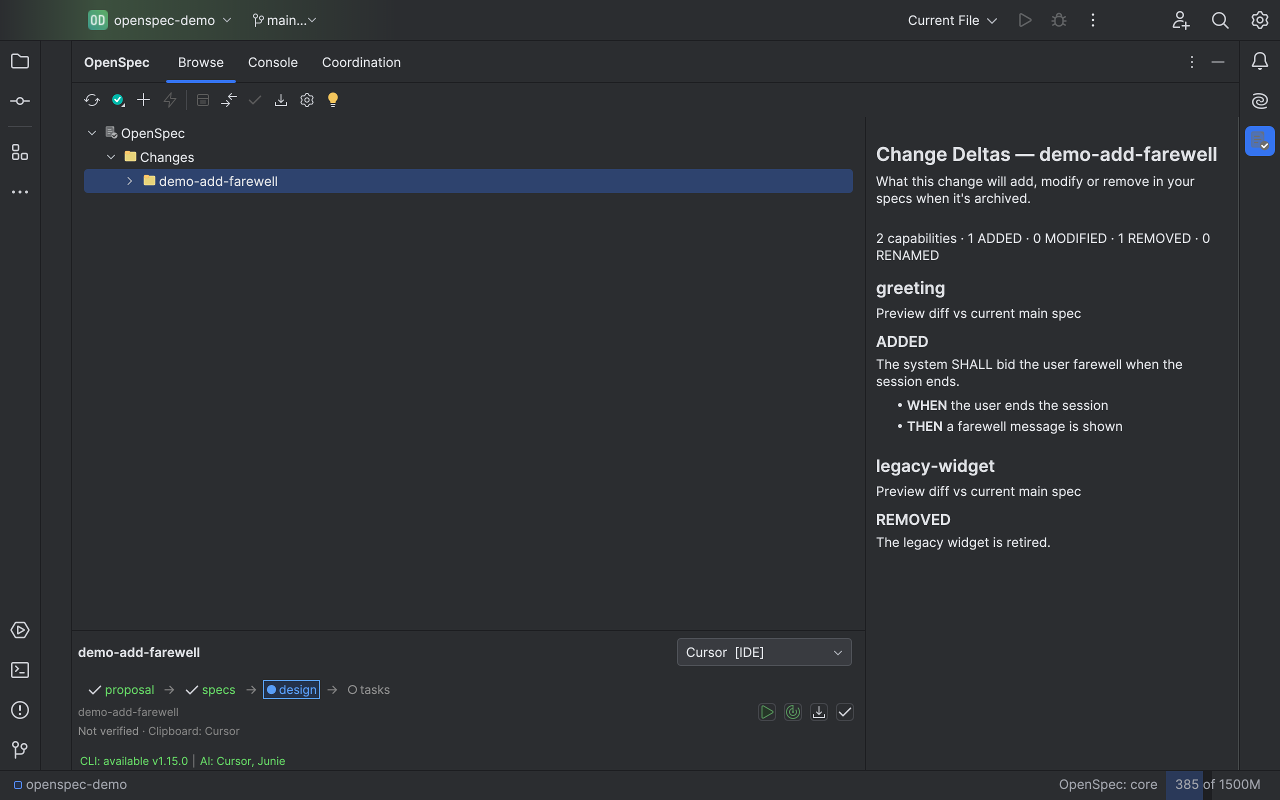
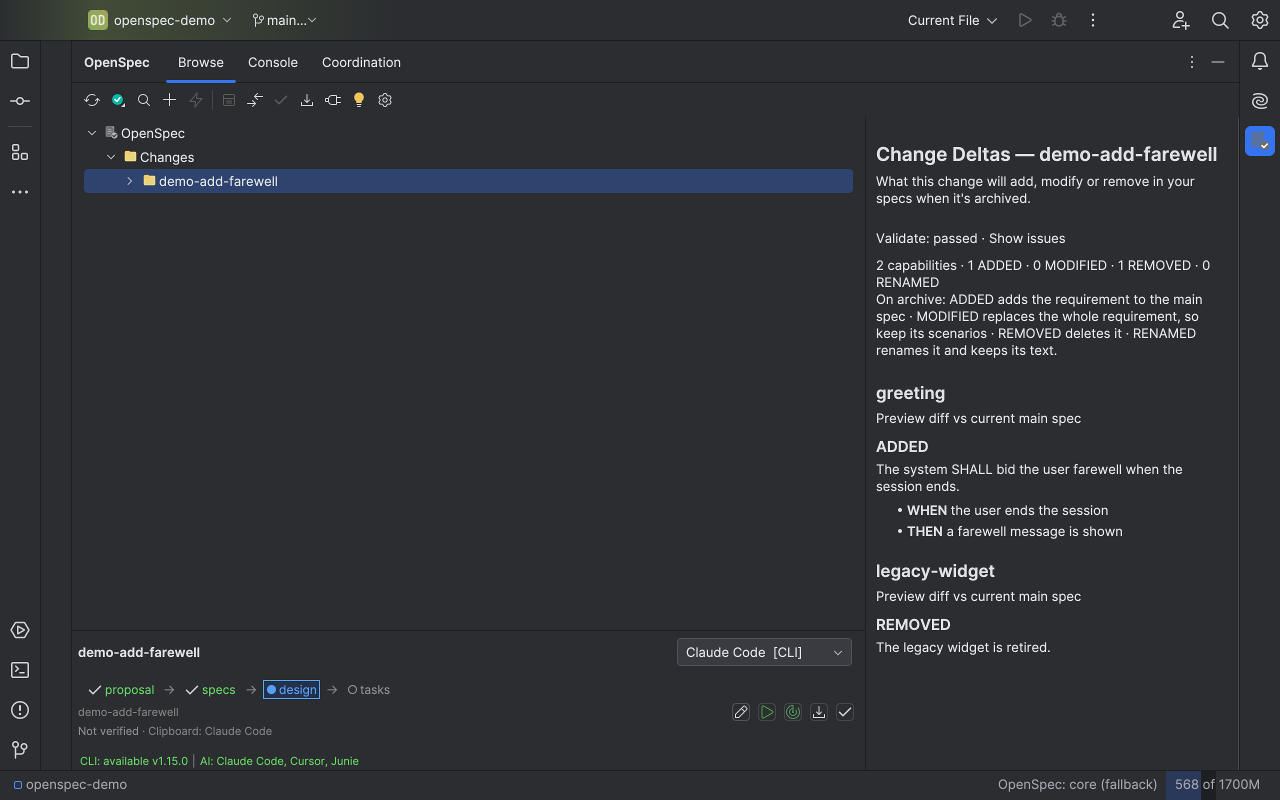
docs(screenshots): regenerate the Marketplace set and add Explore, Regenerate and Revise shots
The tour now emits all 11 listing shots, including the Regenerate and Revise Change
dialogs drawn over the IDE. Retire the stale 05 and 07 entries from the manual capture
script, and record the upload order and count for the listing check.

diff --git a/src/integrationTest/kotlin/com/johnnyblabs/openspec/uismoke/MarketplaceScreenshotTour.kt b/src/integrationTest/kotlin/com/johnnyblabs/openspec/uismoke/MarketplaceScreenshotTour.kt
@@ -40,13 +40,13 @@ import kotlin.time.Duration.Companion.seconds
  * class and the `screenshotTour` task runs only it.
  *
  * The shot list mirrors scripts/capture-screenshots.sh (the single source of truth for
- * shot names). v1 deviations from the full manual set:
+ * shot names); docs/marketplace-page.md gives the upload order. Where the tour differs from a hand capture:
  *  - 03: captures the inspection highlighting + Console results WITHOUT the Alt+Enter
  *    intention popup (driving the popup remotely is deferred).
- *  - 05 (Settings/Schemas): NOT automated — the Settings dialog is modal and its tree
- *    navigation is not remotely drivable yet; use the manual script for that shot.
  *  - 06: captures the sticky cleanup notification over the IDE, not the opened review
  *    dialog (notification-action invocation is deferred).
+ *  - 12, 13: the plugin's own dialogs are built and filled remotely and shown non-modally,
+ *    and their capture is drawn over the frame where the dialog sits.
  *
  * Requirements: a GUI session (AWT Robot screen capture — grant Screen Recording to the
  * launching terminal on macOS if captures come out black) and an OpenSpec CLI 1.6+ on
@@ -64,6 +64,16 @@ class MarketplaceScreenshotTour {
     interface RichToolWindowRef {
         fun getContentManager(): ContentManagerRef
         fun hide()
+    }
+
+    @Remote("com.intellij.openapi.wm.ex.ToolWindowEx")
+    interface ToolWindowExRef {
+        fun stretchWidth(value: Int)
+    }
+
+    @Remote("com.intellij.openapi.ui.Splitter")
+    interface SplitterRef {
+        fun setProportion(proportion: Float)
     }
 
     @Remote("com.intellij.openapi.wm.ex.ToolWindowManagerEx")
@@ -96,6 +106,57 @@ class MarketplaceScreenshotTour {
     interface NotificationRef {
         fun getContent(): String
         fun expire()
+    }
+
+    @Remote("java.awt.Window")
+    interface WindowRef {
+        fun getX(): Int
+        fun getY(): Int
+        fun getWidth(): Int
+        fun getHeight(): Int
+    }
+
+    // Clicks don't land reliably in this environment, so shots 12 and 13 reach the plugin's dialogs through events and
+    // listeners instead: a popup-trigger mouse event on a chip, and the menu item's own listener fired from a Swing timer
+    // (a modal dialog opened inside a driver call would block that call until it closed).
+    @Remote("java.awt.Component")
+    interface ComponentRef {
+        fun getParent(): ComponentRef
+        fun dispatchEvent(event: MouseEventRef)
+    }
+
+    @Remote("java.awt.event.MouseEvent")
+    interface MouseEventRef
+
+    @Remote("javax.swing.AbstractButton")
+    interface AbstractButtonRef {
+        fun getActionListeners(): Array<ActionListenerRef>
+        fun doClick()
+    }
+
+    @Remote("java.awt.event.ActionListener")
+    interface ActionListenerRef
+
+    @Remote("javax.swing.Timer")
+    interface TimerRef {
+        fun setRepeats(repeats: Boolean)
+        fun start()
+    }
+
+    @Remote("javax.swing.MenuSelectionManager")
+    interface MenuSelectionManagerRef {
+        fun defaultManager(): MenuSelectionManagerRef
+        fun clearSelectedPath()
+    }
+
+    @Remote("javax.swing.text.JTextComponent")
+    interface TextComponentRef {
+        fun setText(text: String)
+    }
+
+    @Remote("com.johnnyblabs.openspec.actions.ExploreContextAction", plugin = "com.johnnyblabs.openspec")
+    interface ExploreContextActionRef {
+        fun runExplore(project: Project, prefillTopic: String)
     }
 
     private val outputDir: Path = Path.of(System.getProperty("screenshot.output.dir"))
@@ -184,15 +245,14 @@ class MarketplaceScreenshotTour {
             - **WHEN** the user ends the session
             - **THEN** a farewell message is shown
             """.trimIndent() + "\n")
-        // Deliberate issues so shot 10 (grouped validation console) shows both severities with
-        // clickable file:line links: a main spec whose requirement lacks SHALL/MUST (built-in
-        // ERROR) and a REMOVED delta missing its Reason/Migration fields (built-in WARNING).
+        // A deliberate failure so shot 10 (grouped validation console) shows a FAILED run with both
+        // severities: a main spec whose requirement has no scenario (a CLI ERROR) and lacks SHALL/MUST
+        // (a CLI WARNING since OpenSpec 1.8, so on its own it no longer fails the project).
         Files.createDirectories(projectPath.resolve("openspec/specs/formatting-demo"))
         Files.writeString(
             projectPath.resolve("openspec/specs/formatting-demo/spec.md"),
             "# Formatting Demo\n\n## Purpose\nExercises the grouped, colored validation console report end to end.\n\n" +
-                "## Requirements\n\n### Requirement: Records are kept\nRecords are kept somewhere safe.\n\n" +
-                "#### Scenario: Persist\n- **WHEN** a record is created\n- **THEN** it can be read back later\n",
+                "## Requirements\n\n### Requirement: Records are kept\nRecords are kept somewhere safe.\n",
         )
         val removedDelta = projectPath.resolve("openspec/changes/demo-add-farewell/specs/legacy-widget/spec.md")
         Files.createDirectories(removedDelta.parent)
@@ -203,6 +263,15 @@ class MarketplaceScreenshotTour {
             ### Requirement: Legacy widget
             The legacy widget is retired.
             """.trimIndent() + "\n")
+        // Claude Code's explore and update workflows, so Explore (shot 11) and Revise Change (shot 13) hand off a real
+        // /opsx: command. The demo project's own AI-tool files are kept as they are for shot 06's legacy cleanup.
+        val repoRoot = outputDir.parent.parent
+        for (file in listOf("commands/opsx/explore.md", "commands/opsx/update.md",
+                "skills/openspec-explore/SKILL.md", "skills/openspec-update-change/SKILL.md")) {
+            val dest = projectPath.resolve(".claude/$file")
+            Files.createDirectories(dest.parent)
+            Files.copy(repoRoot.resolve(".claude/$file"), dest, StandardCopyOption.REPLACE_EXISTING)
+        }
         git(projectPath, "init", "-q")
         git(projectPath, "-c", "user.email=demo@example.com", "-c", "user.name=Demo", "add", "-A")
         git(projectPath, "-c", "user.email=demo@example.com", "-c", "user.name=Demo",
@@ -212,9 +281,6 @@ class MarketplaceScreenshotTour {
         hostCli(xdg, projectPath, "store", "register", projectPath.toString(), "--yes")
         hostCli(xdg, base, "workset", "create", "demo-workset",
             "--member", projectPath.toString(), "--member", platformStore.toString())
-        // Project schema fork so Settings' Schemas section shows a [project] provenance tag
-        // (rendered in the manual shot 05; harmless state for the automated shots).
-        hostCli(xdg, projectPath, "schema", "fork", "spec-driven", "custom-flow")
 
         Files.createDirectories(outputDir)
 
@@ -240,7 +306,9 @@ class MarketplaceScreenshotTour {
             // log/screenshots dir and writes frame0.png — the IDE frame alone, at
             // native (retina) resolution. Collect it and downscale to exactly 1280x800.
             val screenshotsRoot = outputDir.parent.parent.resolve("out/perf-startup/tests")
-            fun snap(name: String) {
+            // The command writes each open dialog to its own dialogN.png beside frame0.png. With `dialog` (its window
+            // bounds on screen), the capture of that dialog is drawn over the frame where the dialog sits.
+            fun snap(name: String, dialog: java.awt.Rectangle? = null) {
                 Thread.sleep(3_000) // let paint/animations settle
                 execute(CommandChain().takeScreenshot("tour/$name"))
                 lateinit var raw: Path
@@ -251,6 +319,25 @@ class MarketplaceScreenshotTour {
                     }?.also { raw = it } != null
                 }
                 val frame = ImageIO.read(raw.toFile())
+                if (dialog != null) {
+                    val scale = frame.width / 1280.0
+                    // The capture closest in width to the dialog; a stray, invisible window can be captured too.
+                    val image = Files.list(raw.parent).use { s ->
+                        s.filter { it.fileName.toString().matches(Regex("""dialog\d+\.png""")) }.toList()
+                    }.map { ImageIO.read(it.toFile()) }
+                        .minByOrNull { kotlin.math.abs(it.width - dialog.width * scale) }
+                        ?: throw AssertionError("no dialog capture for $name")
+                    // The capture may leave out the native title bar; it is the window's content, at its bottom.
+                    val x = ((dialog.x - 50) * scale).toInt()
+                    val y = ((dialog.y - 50 + dialog.height) * scale).toInt() - image.height
+                    frame.createGraphics().apply {
+                        // A soft shadow so the dialog reads as floating over the IDE.
+                        color = java.awt.Color(0, 0, 0, 60)
+                        fillRoundRect(x + 4, y + 8, image.width, image.height, 16, 16)
+                        drawImage(image, x, y, null)
+                        dispose()
+                    }
+                }
                 val out = java.awt.image.BufferedImage(1280, 800, java.awt.image.BufferedImage.TYPE_INT_RGB)
                 out.createGraphics().apply {
                     setRenderingHint(java.awt.RenderingHints.KEY_INTERPOLATION,
@@ -344,6 +431,20 @@ class MarketplaceScreenshotTour {
             // Restore the normal docked layout so the remaining shots frame the editor + tool window.
             setOpenSpecMaximized(false)
 
+            // Docked, the default split (68% tree) squeezes the Change Deltas pane into a column a few
+            // words wide. Widen the tool window a little and give the pane more of the split.
+            ideFrame {
+                runCatching {
+                    val splitter = x("//div[@accessiblename='OpenSpec preview change deltas badged']" +
+                        "/ancestor::div[@class='OnePixelSplitter'][1]")
+                    withContext(OnDispatcher.EDT) {
+                        cast(splitter.component, SplitterRef::class).setProportion(0.5f)
+                        utility(ToolWindowManagerRef::class).getInstance(project).getToolWindow("OpenSpec")
+                            ?.let { cast(it, ToolWindowExRef::class).stretchWidth(230) }
+                    }
+                }.onFailure { println("01: couldn't widen the Change Deltas pane: $it") }
+            }
+
             // 01 — hero: tree + workflow chips + a spec in the editor.
             openFile("openspec/specs/greeting/spec.md", project)
             waitUntil("editor settles") { !isCodeAnalysisRunning(project) }
@@ -360,6 +461,55 @@ class MarketplaceScreenshotTour {
                     utility(ActionCenterRef::class).getNotifications(project).forEach { it.expire() }
                 }
             }
+
+            // Fills the note of the dialog titled `title`, captures it over the IDE, then cancels it.
+            fun snapNoteDialog(name: String, title: String, note: String) {
+                val dialog = ui.x { byTitle(title) }
+                waitUntil("'$title' shows") { dialog.present() }
+                withContext(OnDispatcher.EDT) {
+                    cast(dialog.x { byClass("JBTextArea") }.component, TextComponentRef::class).setText(note)
+                }
+                val window = cast(dialog.component, WindowRef::class)
+                snap(name, java.awt.Rectangle(window.getX(), window.getY(), window.getWidth(), window.getHeight()))
+                withContext(OnDispatcher.EDT) {
+                    cast(dialog.x { byAccessibleName("Cancel") }.component, AbstractButtonRef::class).doClick()
+                }
+                waitUntil("'$title' closes") { dialog.notPresent() }
+            }
+
+            // 12 — Regenerate with a note: a done chip's right-click → Regenerate, over the proposal.
+            withContext(OnDispatcher.EDT) {
+                val chip = cast(ui.x { and(byClass("JBLabel"), byVisibleText("proposal")) }.component,
+                    ComponentRef::class).getParent()
+                chip.dispatchEvent(new(MouseEventRef::class, chip, java.awt.event.MouseEvent.MOUSE_PRESSED,
+                    System.currentTimeMillis(), 0, 10, 10, 1, true, java.awt.event.MouseEvent.BUTTON3))
+            }
+            val regenerateItem = ui.x { and(byClass("JMenuItem"), byVisibleText("Regenerate")) }
+            waitUntil("the chip's menu shows Regenerate") { regenerateItem.present() }
+            withContext(OnDispatcher.EDT) {
+                val listener = cast(regenerateItem.component, AbstractButtonRef::class).getActionListeners().first()
+                utility(MenuSelectionManagerRef::class).defaultManager().clearSelectedPath()
+                new(TimerRef::class, 0, listener).apply { setRepeats(false); start() }
+            }
+            snapNoteDialog("12-regenerate-note", "Regenerate proposal",
+                "Say the farewell is shown once per session, and only after the user has signed in.")
+
+            // 13 — Revise Change: the note the agent's own update workflow gets with the change.
+            invokeAction("OpenSpec.ReviseChange", now = false)
+            snapNoteDialog("13-revise-change", "Revise Change: demo-add-farewell",
+                "The farewell should be configurable: add a setting to turn it off.")
+
+            // 11 — Explore: a topic in, and the /opsx:explore handoff copied for the agent, before any change exists.
+            expireNotifications()
+            withContext(OnDispatcher.EDT) {
+                utility(ExploreContextActionRef::class)
+                    .runExplore(project, "how should a farewell differ for signed-in and guest users?")
+            }
+            waitUntil("Explore copied notice", timeout = 2.minutes) {
+                utility(ActionCenterRef::class).getNotifications(project).any { it.getContent().contains("explore") }
+            }
+            snap("11-explore-first-step")
+            expireNotifications()
 
             // 04 — coordination: stores + workset from the isolated registry.
             selectToolWindowContent("Coordination")
@@ -395,7 +545,7 @@ class MarketplaceScreenshotTour {
             // 10 — grouped validation console: the Validate run above already filled the OpenSpec
             // Console with the structured report — select that tab and capture it showing the
             // FAILED verdict, the error/warning/info count line, per-file group headers, per-severity
-            // coloring, and the clickable file:line links (the seeded ERROR + WARNING both resolve).
+            // coloring (the seeded ERROR and WARNING).
             selectToolWindowContent("Console")
             ideFrame {
                 waitUntil("validation console renders the grouped report", timeout = 2.minutes) {
@@ -405,7 +555,7 @@ class MarketplaceScreenshotTour {
             snap("10-validation-console")
 
             // 06 — update cleanup: sticky notification over the IDE (captured LAST; the
-            // flow stops re-raising once resolved). Shot 05 (Settings) is manual-only.
+            // flow stops re-raising once resolved).
             selectToolWindowContent("Browse")
             expireNotifications()
             invokeAction("OpenSpec.Update", now = false)
@@ -428,8 +578,9 @@ class MarketplaceScreenshotTour {
         // Screen Recording permission, AWT Robot returns the bare desktop wallpaper —
         // large enough to pass a size check but byte-identical across all shots.
         val emitted = listOf("01-spec-browser", "02-change-workflow", "03-validation-quickfix",
-            "04-coordination-stores", "06-update-legacy-cleanup", "07-spec-preview", "08-change-deltas",
-            "09-tree-badges", "10-validation-console")
+            "04-coordination-stores", "06-update-legacy-cleanup", "08-change-deltas",
+            "09-tree-badges", "10-validation-console", "11-explore-first-step", "12-regenerate-note",
+            "13-revise-change")
         val small = emitted.filter { Files.size(outputDir.resolve("$it.png")) < 50_000 }
         check(small.isEmpty()) { "suspiciously small captures (blank?): $small" }
         val distinctSizes = emitted.map { Files.size(outputDir.resolve("$it.png")) }.distinct()

diff --git a/docs/marketplace-page.md b/docs/marketplace-page.md
@@ -35,13 +35,19 @@ These fields are edited by hand in the Marketplace dashboard; only the Descripti
 
 ## Media / Screenshots
 
-The tour shots live in [`docs/screenshots/`](screenshots/) — regenerate them with `./gradlew screenshotTour`. The listing currently has 13 (the count is checked against `listing.json`). Lead with the viewing/intelligence visuals:
+The tour shots live in [`docs/screenshots/`](screenshots/) — regenerate them with `./gradlew screenshotTour`, which emits the whole set. The listing has 11 (the count is checked against `listing.json`). When a shot changes, replace the whole set rather than patching single images, and upload in this order:
 
-1. **Spec + change overview** (`01-spec-browser`) — a spec open in the editor with Markdown preview, beside the Changes-focused Browse tree and its consolidated change-deltas
-2. **Change deltas** (`08-change-deltas`) — the consolidated deltas view, grouped by capability/operation with badges
-3. **Tree badges** (`09-tree-badges`) — a change expanded showing artifact-status badge overlays (done / ready / blocked, X/Y progress)
-4. **Validation console** (`10-validation-console`) — grouped-by-file results with file:line links and per-severity coloring
+1. **Spec + change overview** (`01-spec-browser`) — a spec open in the editor beside the Browse tree, the workflow chips and the change's consolidated deltas
+2. **Change deltas** (`08-change-deltas`) — the consolidated deltas view, grouped by capability with operation badges
+3. **Tree badges** (`09-tree-badges`) — a change expanded showing artifact-status badges (done / ready / blocked, X/Y progress)
+4. **Explore first** (`11-explore-first-step`) — an Explore topic handed to the AI agent as its explore command, before any change exists
 5. **Workflow / pipeline** (`02-change-workflow`) — pipeline chips showing progress on an active change
+6. **Regenerate with a note** (`12-regenerate-note`) — what should change, added to one regeneration's prompt, with the downstream warning
+7. **Revise Change** (`13-revise-change`) — a note for the agent's own update workflow, which confirms each revision
+8. **Validation + quick-fix** (`03-validation-quickfix`) — inspection highlighting on a spec with the Validate result
+9. **Validation console** (`10-validation-console`) — a failed run grouped by file, colored by severity
+10. **Coordination** (`04-coordination-stores`) — stores with health, worksets and their members
+11. **Safe upgrades** (`06-update-legacy-cleanup`) — Update OpenSpec offering to clean up legacy files
 
 **Tips:**
 - Use the default IntelliJ light theme (most recognizable on the marketplace)
